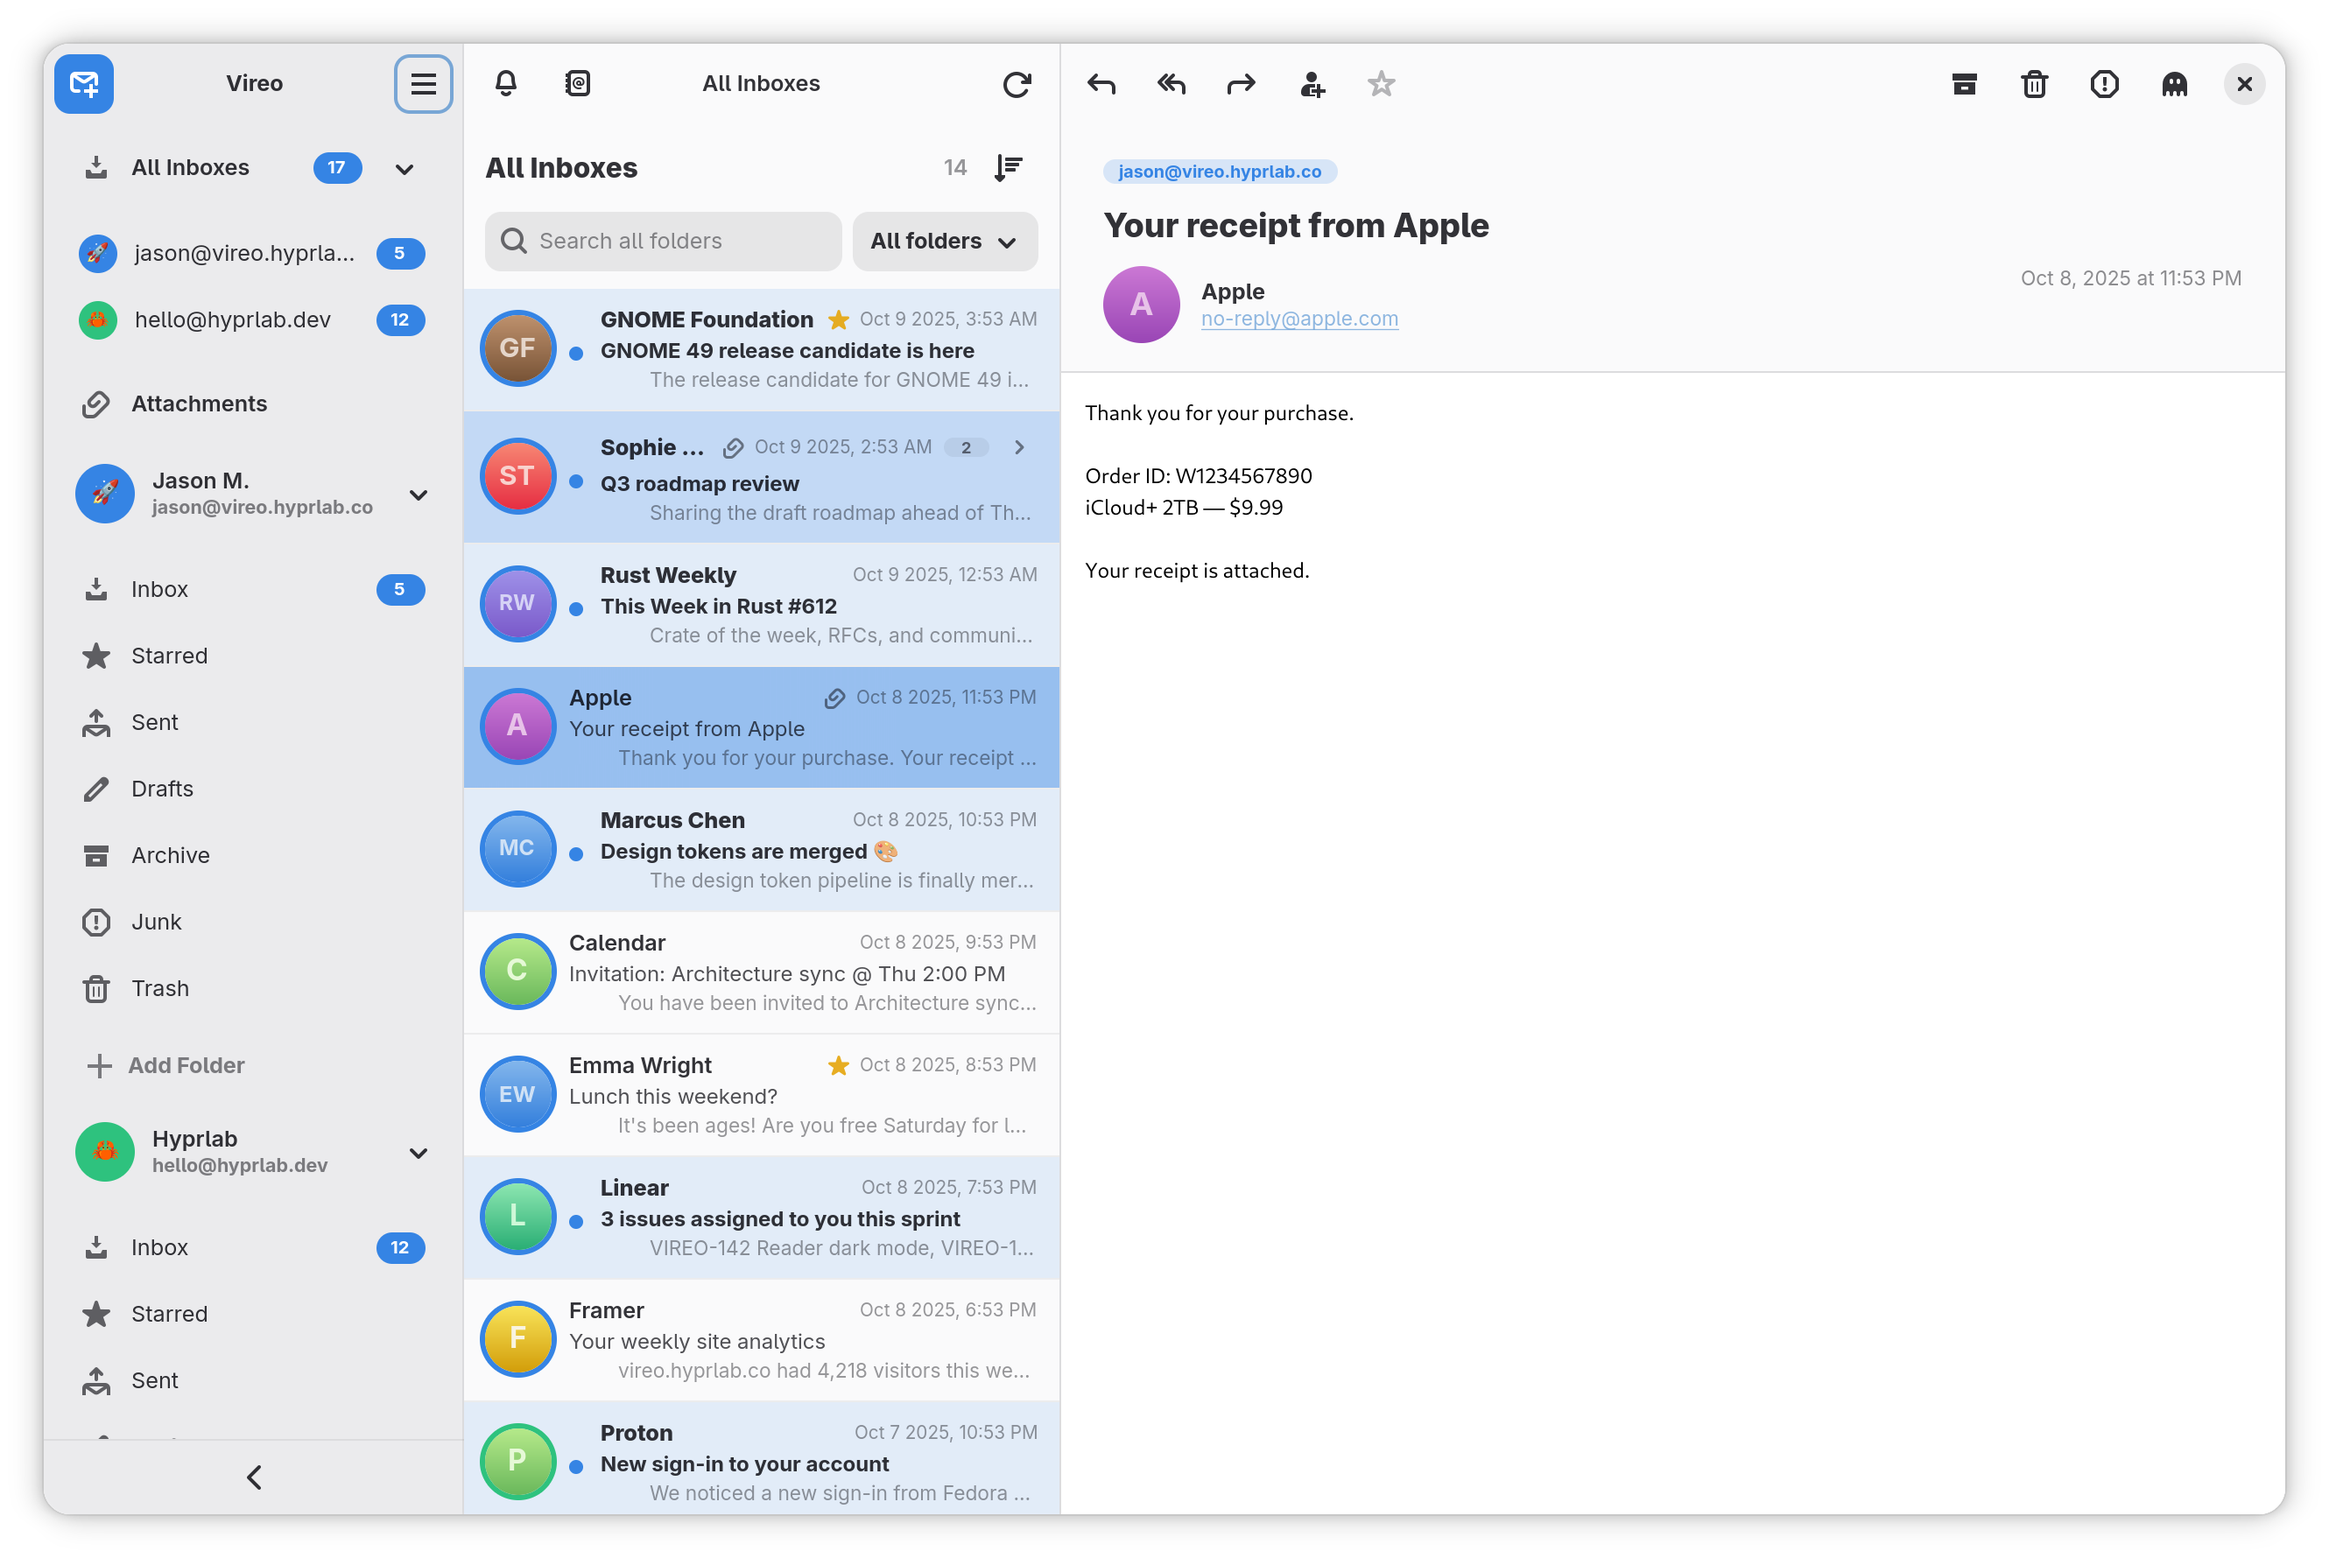
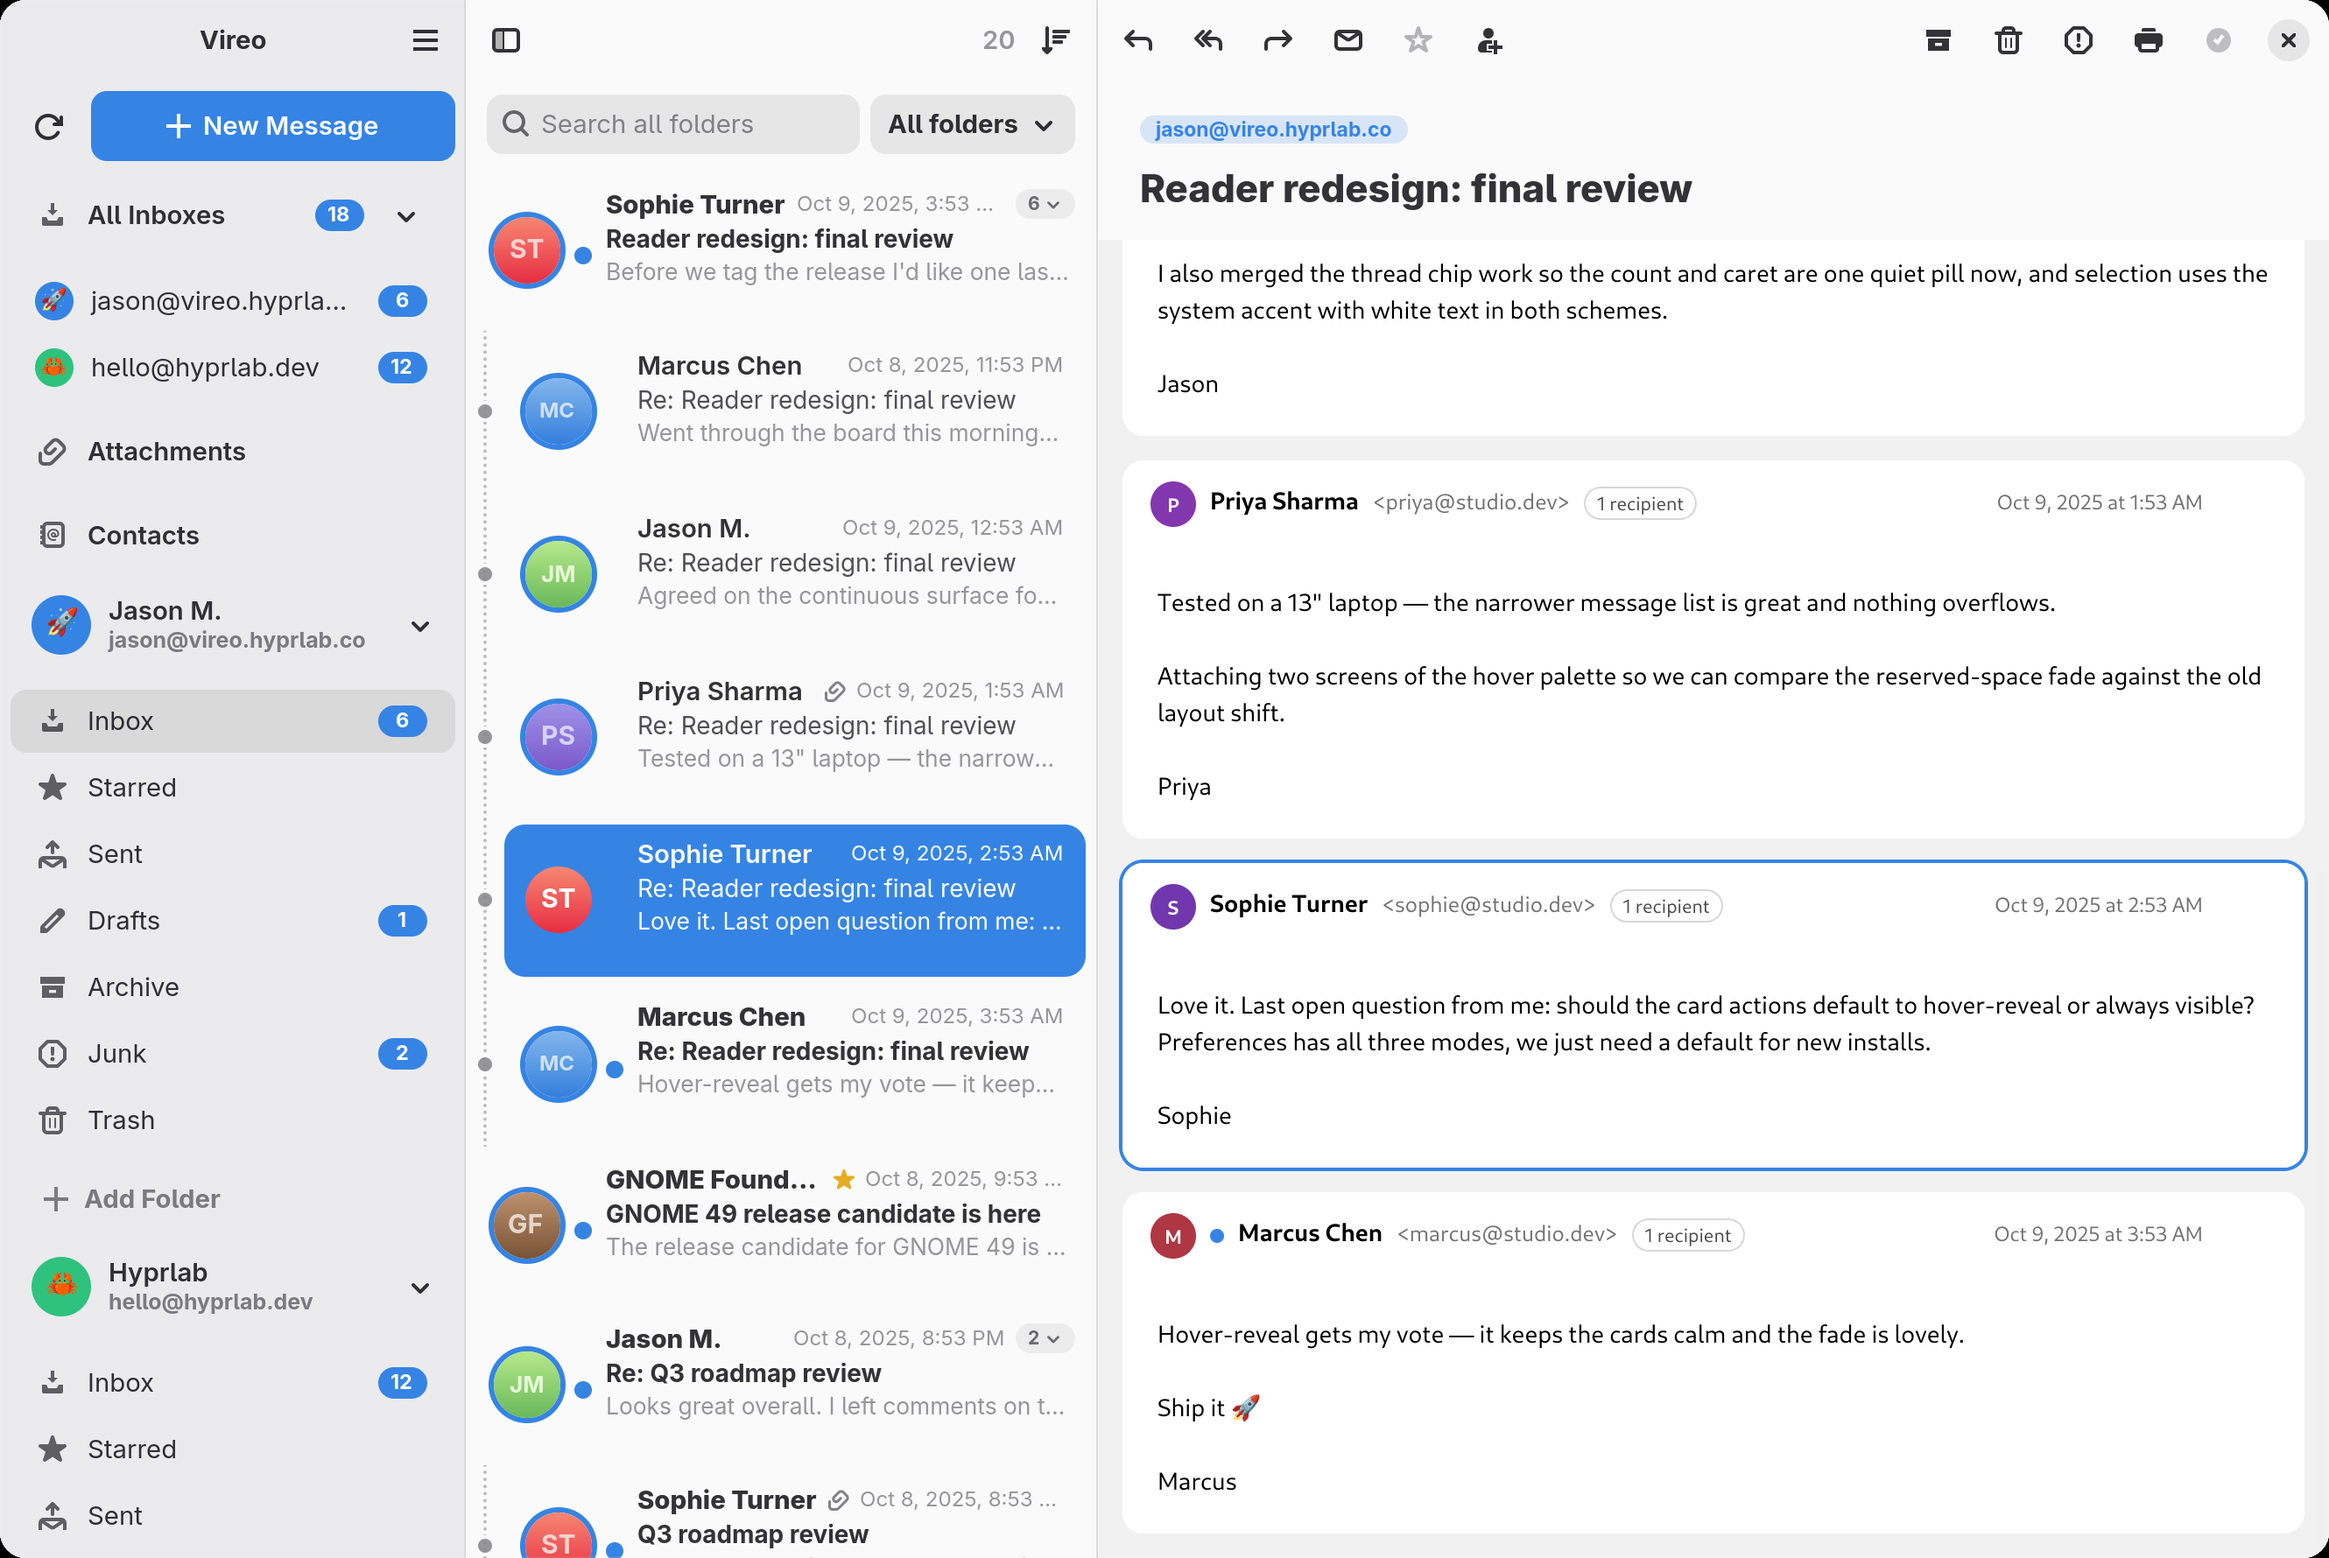
A staged demo showcase retakes the screenshots
VIREO_DEMO + VIREO_SHOWCASE=/path.png arranges the marketing shot by
itself — selects the demo conversation (expanded via the
threads_expanded preference), highlights a mid-thread card, and renders
the window to a 2x PNG through the widget tree (no compositor
involved). The demo's two mock accounts now show All Inboxes like a
real multi-account setup, and docs/screenshot.png is retaken with the
current UI: light mode, the expanded thread on its rail, an accent
selection in the list and the matching card outlined in the reader.

diff --git a/src/app.rs b/src/app.rs
@@ -2082,6 +2082,32 @@ impl SimpleComponent for AppModel {
             widgets.lightbox_picture.add_controller(click);
         }
 
+        // Screenshot showcase (VIREO_DEMO + VIREO_SHOWCASE=/path.png): stage
+        // the demo the way the marketing shots want it — first row (the demo
+        // conversation, expanded via the threads_expanded preference) selected,
+        // one mid-thread card highlighted — then render the window to a PNG.
+        // Timers leave room for the WebViews to load and settle between steps.
+        if demo_mode() {
+            if let Some(shot) = std::env::var("VIREO_SHOWCASE").ok() {
+                let list = model.message_list.sender().clone();
+                gtk::glib::timeout_add_seconds_local_once(3, move || {
+                    let _ = list.send(MessageListInput::MoveSelection(1));
+                });
+                let view = model.message_view.sender().clone();
+                gtk::glib::timeout_add_seconds_local_once(6, move || {
+                    let _ = view.send(crate::ui::message_view::MessageViewInput::CardClicked {
+                        account_id: 1,
+                        id: 2,
+                        mode: crate::ui::message_view::SelectMode::Plain,
+                    });
+                });
+                let win = root.clone();
+                gtk::glib::timeout_add_seconds_local_once(9, move || {
+                    showcase_capture(win.upcast_ref::<gtk::Widget>(), &shot);
+                });
+            }
+        }
+
         // The list header's sort menu (moved out of the message list's own
         // toolbar): a stateful radio action feeding the list's SetSort.
         {
@@ -5176,7 +5202,10 @@ impl AppModel {
         // single-account — its default selection then landed on that account's
         // inbox (possibly inside a collapsed section, so nothing visibly
         // highlighted) instead of the "All Inboxes" the app should open with.
-        let show_unified = self.config.iter().filter(|c| c.enabled).count() > 1;
+        let show_unified = self.config.iter().filter(|c| c.enabled).count() > 1
+            // The demo has no config-file accounts, but its two mock accounts
+            // deserve the same All Inboxes opening as a real multi-account setup.
+            || (demo_mode() && self.accounts.len() > 1);
         let unified_unread = self.accounts.iter().map(|a| self.inbox_unread(a.id)).sum();
         self.sidebar.emit(SidebarInput::SetContents {
             sections,
@@ -7933,6 +7962,35 @@ fn focus_matches(window: &adw::ApplicationWindow, include_web_view: bool) -> boo
 /// `VIREO_DEMO` is set, so removing all real accounts leaves the app blank.
 fn demo_mode() -> bool {
     std::env::var_os("VIREO_DEMO").is_some()
+}
+
+/// Render the window's widget tree to a PNG at 2x (crisp text for marketing
+/// shots). Content only — the compositor's shadow/frame is not part of the
+/// tree, which is exactly what the site and store screenshots want.
+fn showcase_capture(win: &gtk::Widget, path: &str) {
+    let (w, h) = (win.width(), win.height());
+    if w == 0 || h == 0 {
+        tracing::error!("showcase: window not realized");
+        return;
+    }
+    let paintable = gtk::WidgetPaintable::new(Some(win));
+    let snapshot = gtk::Snapshot::new();
+    snapshot.scale(2.0, 2.0);
+    gtk::prelude::PaintableExt::snapshot(&paintable, &snapshot, w as f64, h as f64);
+    let Some(node) = snapshot.to_node() else {
+        tracing::error!("showcase: nothing to render");
+        return;
+    };
+    let Some(renderer) = win.native().and_then(|n| n.renderer()) else {
+        tracing::error!("showcase: no renderer");
+        return;
+    };
+    let rect = gtk::graphene::Rect::new(0.0, 0.0, (w * 2) as f32, (h * 2) as f32);
+    let texture = renderer.render_texture(&node, Some(&rect));
+    match texture.save_to_png(path) {
+        Ok(()) => tracing::info!("showcase: saved {path}"),
+        Err(e) => tracing::error!("showcase: could not save {path}: {e}"),
+    }
 }
 
 /// What [`reconcile_goa`] changed: accounts dropped outright (their GOA account
